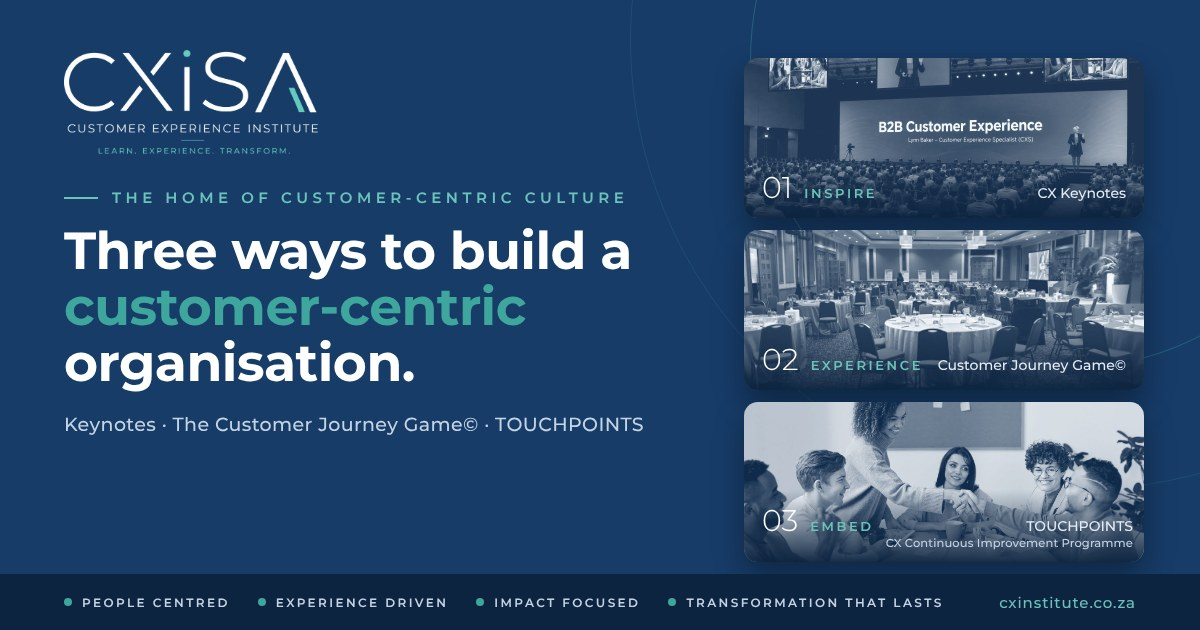
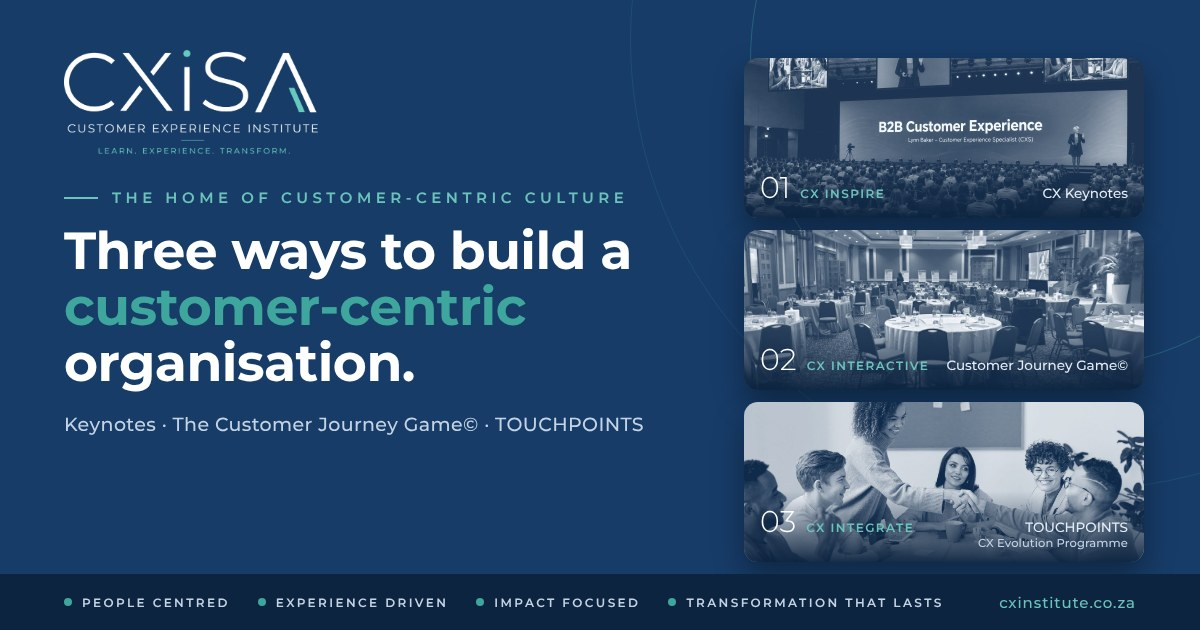
Share image: rename pillars CX Inspire / CX Interactive / CX Integrate
Tile 3 subtitle is now "TOUCHPOINTS CX Evolution Programme".

Claude-Session: https://claude.ai/code/session_01SqRi7834NSFcoj79pzUNNv

diff --git a/tools/thumbnail/og-cxinstitute.html b/tools/thumbnail/og-cxinstitute.html
@@ -17,10 +17,10 @@ h1 span{color:#3EA69D}
 .tiles{position:absolute;right:56px;top:58px;width:400px;display:flex;flex-direction:column;gap:12px}
 .tile{position:relative;height:160px;border-radius:14px;overflow:hidden;box-shadow:0 14px 30px rgba(0,0,0,.35)}
 .tile img{width:100%;height:100%;object-fit:cover}
-.tile .lab{position:absolute;inset:auto 0 0 0;padding:12px 18px;background:linear-gradient(transparent,rgba(13,36,64,.95));display:flex;align-items:baseline;gap:12px}
+.tile .lab{position:absolute;inset:auto 0 0 0;padding:12px 16px;background:linear-gradient(transparent,rgba(13,36,64,.95));display:flex;align-items:baseline;gap:10px}
 .tile b{font-weight:300;font-size:30px;color:#fff}
-.tile i{font-style:normal;font-weight:600;font-size:13px;letter-spacing:.2em;color:#6cc3bb;text-transform:uppercase}
-.tile em{font-style:normal;font-weight:500;font-size:14px;color:#e4edf6;margin-left:auto;white-space:nowrap}
+.tile i{font-style:normal;font-weight:600;font-size:12px;letter-spacing:.12em;white-space:nowrap;color:#6cc3bb;text-transform:uppercase}
+.tile em{font-style:normal;font-weight:500;font-size:13.5px;color:#e4edf6;margin-left:auto;white-space:nowrap}
 .bar{position:absolute;left:0;right:0;bottom:0;height:56px;background:#0d2440;display:flex;align-items:center;padding:0 64px;gap:28px;font-size:12px;font-weight:600;letter-spacing:.2em;text-transform:uppercase;color:#c5d4e5}
 .bar span:before{content:"";display:inline-block;width:8px;height:8px;border-radius:50%;background:#3EA69D;margin-right:10px;vertical-align:1px}
 .bar .url{margin-left:auto;letter-spacing:.06em;text-transform:none;color:#6cc3bb;font-weight:500;font-size:15px}
@@ -35,9 +35,9 @@ h1 span{color:#3EA69D}
   <p class="tag">Keynotes · The Customer Journey Game© · TOUCHPOINTS</p>
 </div>
 <div class="tiles">
-  <div class="tile"><img src="tile-inspire-toned.jpg"><div class="lab"><b>01</b><i>Inspire</i><em>CX Keynotes</em></div></div>
-  <div class="tile"><img src="tile-experience-toned.jpg"><div class="lab"><b>02</b><i>Experience</i><em>Customer Journey Game©</em></div></div>
-  <div class="tile"><img src="../../public/assets/img/touchpoints-team.jpg"><div class="lab"><b>03</b><i>Embed</i><em class="two">TOUCHPOINTS<small>CX Continuous Improvement Programme</small></em></div></div>
+  <div class="tile"><img src="tile-inspire-toned.jpg"><div class="lab"><b>01</b><i>CX Inspire</i><em>CX Keynotes</em></div></div>
+  <div class="tile"><img src="tile-experience-toned.jpg"><div class="lab"><b>02</b><i>CX Interactive</i><em>Customer Journey Game©</em></div></div>
+  <div class="tile"><img src="../../public/assets/img/touchpoints-team.jpg"><div class="lab"><b>03</b><i>CX Integrate</i><em class="two">TOUCHPOINTS<small>CX Evolution Programme</small></em></div></div>
 </div>
 <div class="bar"><span>People centred</span><span>Experience driven</span><span>Impact focused</span><span>Transformation that lasts</span><span class="url">cxinstitute.co.za</span></div>
 </body></html>
